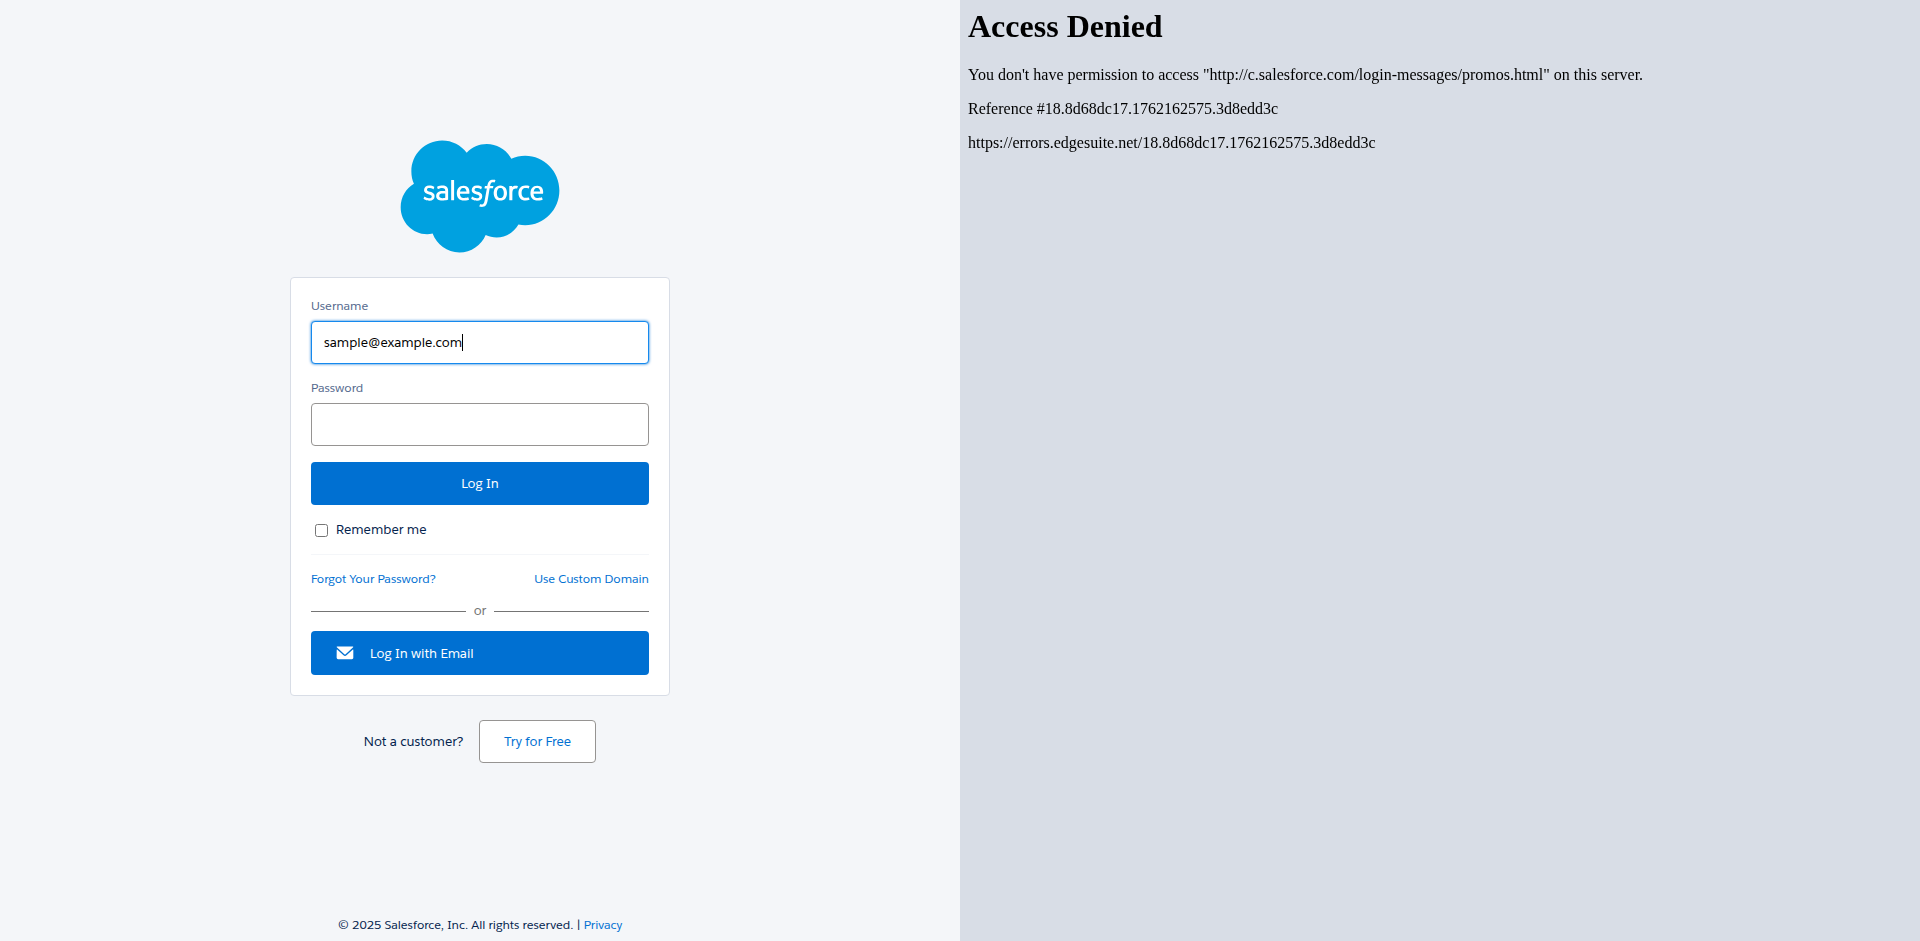
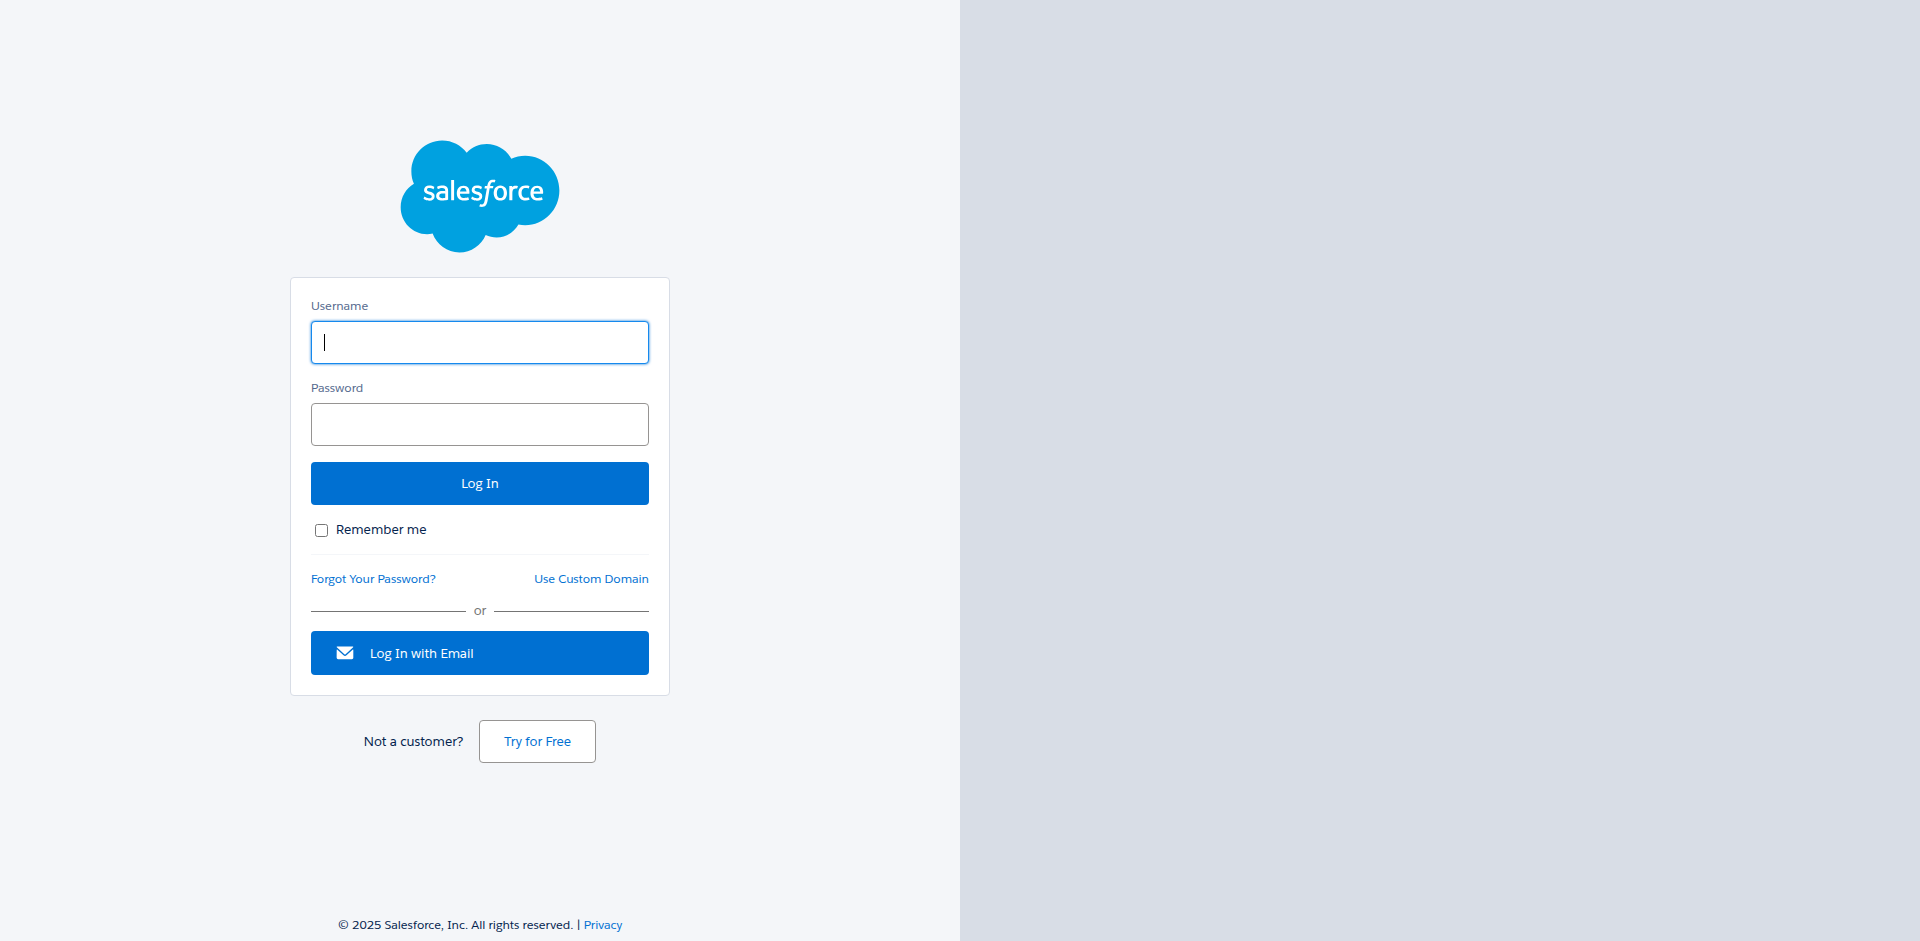
Auto-update report after username.json change

Changed region(s): [[0.5, 0.0, 0.8438, 0.1541], [0.1562, 0.339, 0.25, 0.3698]]

diff --git a/docs/report.html b/docs/report.html
@@ -16,7 +16,7 @@
 </head>
 <body>
 <h1>Automated Selenium Test Report</h1>
-<p><strong>Username value used:</strong> sample@example.com</p>
+<p><strong>Username value used:</strong> (Not Found in username.json)</p>
 <table>
   <thead>
     <tr><th>No.</th><th>Step</th><th>Result</th><th>Screenshot</th></tr>
@@ -25,7 +25,7 @@
     <tr>
       <td>1.</td>
       <td>Fill value in username field.</td>
-      <td class="pass">PASS</td>
+      <td class="fail">FAIL</td>
       <td><img class="sshot" src="step1.png" alt="step1" /></td>
     </tr>
     <tr>
